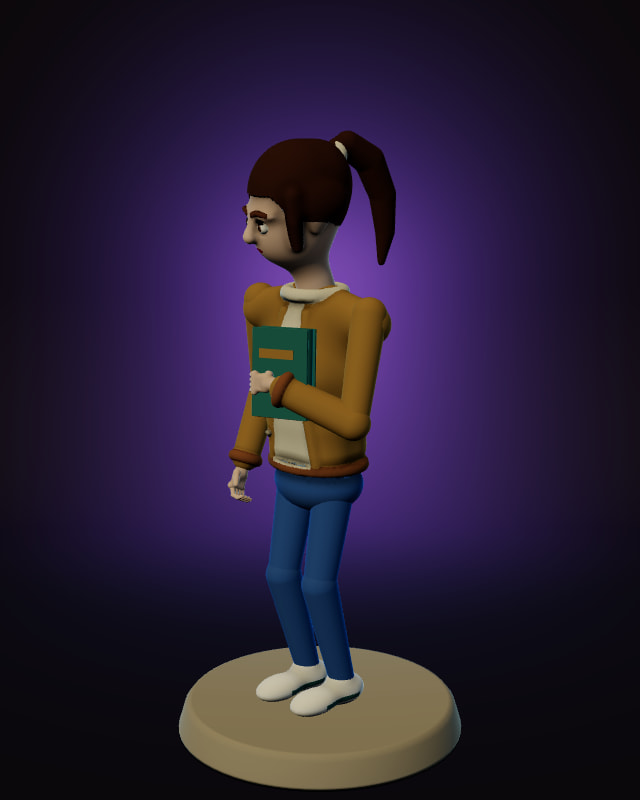
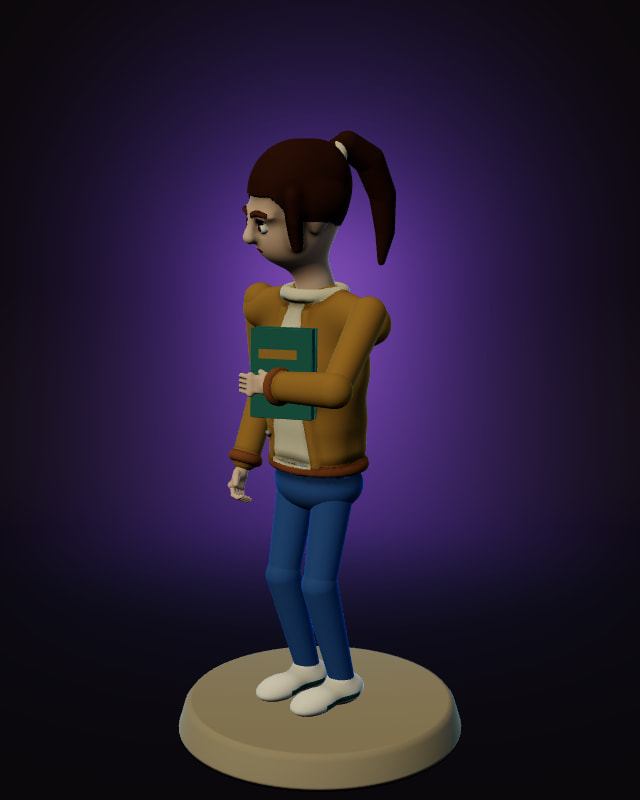
fix(betrayal): Jenny's book sits against her chest, clear of her arm
The book's grip sat on its mid-plane, so her forearm ran through the cover.
Her hand now curls round the fore-edge with her wrist out in front, the book
turns its spine side back towards her chest so her forearm crosses in front of
it, and her elbow comes forward. A stricter clipping check holds the book clear
of her arm and cardigan through her idle, peek, crowd, walk and run.

Changed region(s): [[0.375, 0.4062, 0.5938, 0.5625]]

diff --git a/src/projects/betrayal/art/explorers/clipping.slow.test.ts b/src/projects/betrayal/art/explorers/clipping.slow.test.ts
@@ -6,7 +6,7 @@ import { partsOf } from "../figure-parts";
 import { stubCanvas } from "../headless";
 import type { ExplorerBuilder } from "../stage";
 import { clipping } from "./clipping";
-import type { Pace } from "./figure";
+import { cueBurst, type Pace } from "./figure";
 import { handsOf, holdIn } from "./hands";
 import { onTheSpot } from "./line-up";
 import { flash } from "./flash";
@@ -136,4 +136,64 @@ describe("longfellow's scarf", () => {
   it("lays the ends clear of the coat", LIMIT, () => {
     expect(clipsThrough(longfellow("scarf"), IDLE.slice(0, 40))).toEqual([]);
   });
+});
+
+/*
+ * Jenny's book is a held prop, and the check lets a held thing pass into the
+ * hand and forearm round its grip, as a handle passes into the fist that
+ * closes on it. Her forearm lies across the book's front, a few centimetres
+ * from the grip, so a forearm sunk into the cover went unseen. Her book is
+ * held to a stricter rule: no surface point of her left arm lies inside it,
+ * nor any of its points inside her arm or her cardigan, at any moment of her
+ * idle, cued bursts, walk or run. Only her hand's own parts may touch it.
+ */
+describe("jenny's book", () => {
+  /** How deep one part's surface lies inside another's solid, at its deepest. */
+  function deepest(a: THREE.Mesh, b: THREE.Mesh): number {
+    const solid = solidOf(b.geometry as THREE.BufferGeometry);
+    if (!solid) throw new Error(`${b.name} has no solid`);
+    const into = b.matrixWorld.clone().invert().multiply(a.matrixWorld);
+    const position = (a.geometry as THREE.BufferGeometry).getAttribute("position");
+    const point = new THREE.Vector3();
+    let depth = 0;
+    for (let i = 0; i < position.count; i += 2) {
+      point.fromBufferAttribute(position, i).applyMatrix4(into);
+      depth = Math.max(depth, -solid.distance(point.x, point.y, point.z));
+    }
+    return depth;
+  }
+
+  function crossings(figure: THREE.Object3D, times: readonly number[]): string[] {
+    const named = (name: string) => {
+      const found = figure.getObjectByName(name);
+      if (!(found instanceof THREE.Mesh)) throw new Error(`Jenny has no ${name}`);
+      return found;
+    };
+    const book = named("book");
+    const others = ["left forearm", "left upper arm", "cardigan"].map(named);
+    const found: string[] = [];
+    for (const at of times) {
+      figure.traverse((object) => animationOf(object)?.(at));
+      figure.updateMatrixWorld(true);
+      for (const other of others) {
+        const depth = Math.max(deepest(other, book), other.name === "cardigan" ? 0 : deepest(book, other));
+        if (depth > 0.0015) found.push(`at ${at.toFixed(2)} s: the book and her ${other.name} cross, ${(depth * 1000).toFixed(1)} mm deep`);
+      }
+    }
+    return found;
+  }
+
+  for (const pace of [undefined, "walk", "run"] as (Pace | undefined)[]) {
+    it(`sits clear of her arm and chest ${pace ? `${pace === "run" ? "running" : "walking"}` : "standing"}`, LIMIT, () => {
+      expect(crossings(onTheSpot(jenny, "jenny's book", pace), pace ? STRIDES : IDLE).slice(0, 5)).toEqual([]);
+    });
+  }
+
+  for (const name of ["peek", "crowd"]) {
+    it(`sits clear of her arm and chest through her ${name}`, LIMIT, () => {
+      const figure = jenny("jenny's book");
+      cueBurst(figure, { name, at: 0, repeat: false });
+      expect(crossings(figure, moments(0, 0.05, 80)).slice(0, 5)).toEqual([]);
+    });
+  }
 });

diff --git a/src/projects/betrayal/art/explorers/jenny.ts b/src/projects/betrayal/art/explorers/jenny.ts
@@ -224,15 +224,17 @@ function book(): THREE.BufferGeometry {
  *  cover, its fingers round the fore-edge, a little below the middle. The
  *  edge runs along the grip's axis, upwards; her fingers point across the
  *  cover towards it. */
+/** How round her hand curls at the book: wider than the book is thick, so her fingers wrap its fore-edge loosely while her palm and wrist stay out in front of the cover. */
+const BOOK_HOLD = 0.035;
 const BOOK_GRIP = new THREE.Matrix4()
   .makeBasis(new THREE.Vector3(0, 0, 1), new THREE.Vector3(0, 1, 0), new THREE.Vector3(-1, 0, 0))
-  .setPosition(-BOOK.width / 2 + BOOK.thick / 2, -0.025, 0);
+  .setPosition(-BOOK.width / 2 + 0.02, -0.025, 0.004);
 
 /** Her book as a prop, held at its fore-edge. */
 function heldBook(geometry: THREE.BufferGeometry, mesh: (geometry: THREE.BufferGeometry, name: string) => THREE.Mesh): Prop {
   const pages = mesh(geometry, "book");
   BOOK_GRIP.clone().invert().decompose(pages.position, pages.quaternion, pages.scale);
-  return { object: group(pages), handle: BOOK.thick / 2, carry: "hang" };
+  return { object: group(pages), handle: BOOK_HOLD, carry: "hang" };
 }
 
 /** Every part's geometry, meshed once on first use and shared: none of it depends on the seed. */
@@ -301,10 +303,10 @@ export function jenny(seed = "jenny", gait: Gait = STANDING): THREE.Group {
   holdIn(left.hand, heldBook(parts.book, mesh));
 
   // The book hugged to her left breast, her forearm across its front; held tight, higher and closer; tipped out to look at.
-  const outward = new THREE.Vector3(1, -0.4, -0.5);
-  const hugs = gripAt(left, placed(new THREE.Vector3(0.055, 0.25, 0.152), new THREE.Euler(-0.1, 0.22, 0.06)).multiply(BOOK_GRIP), outward);
-  const clutches = gripAt(left, placed(new THREE.Vector3(0.045, 0.27, 0.148), new THREE.Euler(-0.14, 0.26, 0.04)).multiply(BOOK_GRIP), outward);
-  const peeks = gripAt(left, placed(new THREE.Vector3(0.04, 0.2, 0.22), new THREE.Euler(0.55, 0.12, 0.04)).multiply(BOOK_GRIP), outward);
+  const outward = new THREE.Vector3(1, -0.3, 0.6);
+  const hugs = gripAt(left, placed(new THREE.Vector3(0.055, 0.25, 0.152), new THREE.Euler(-0.1, 0.45, 0.06)).multiply(BOOK_GRIP), outward);
+  const clutches = gripAt(left, placed(new THREE.Vector3(0.045, 0.27, 0.148), new THREE.Euler(-0.14, 0.5, 0.04)).multiply(BOOK_GRIP), outward);
+  const peeks = gripAt(left, placed(new THREE.Vector3(0.04, 0.2, 0.22), new THREE.Euler(0.55, 0.9, 0.04)).multiply(BOOK_GRIP), outward);
 
   const hangs = reachWrist(right, right.at.clone().add(new THREE.Vector3(-0.04, -0.44, 0.05)), new THREE.Vector3(-0.3, 0, -1));
   const carries = reachWrist(right, right.at.clone().add(new THREE.Vector3(0, -0.28, 0.21)), new THREE.Vector3(-0.2, 0, -1));
